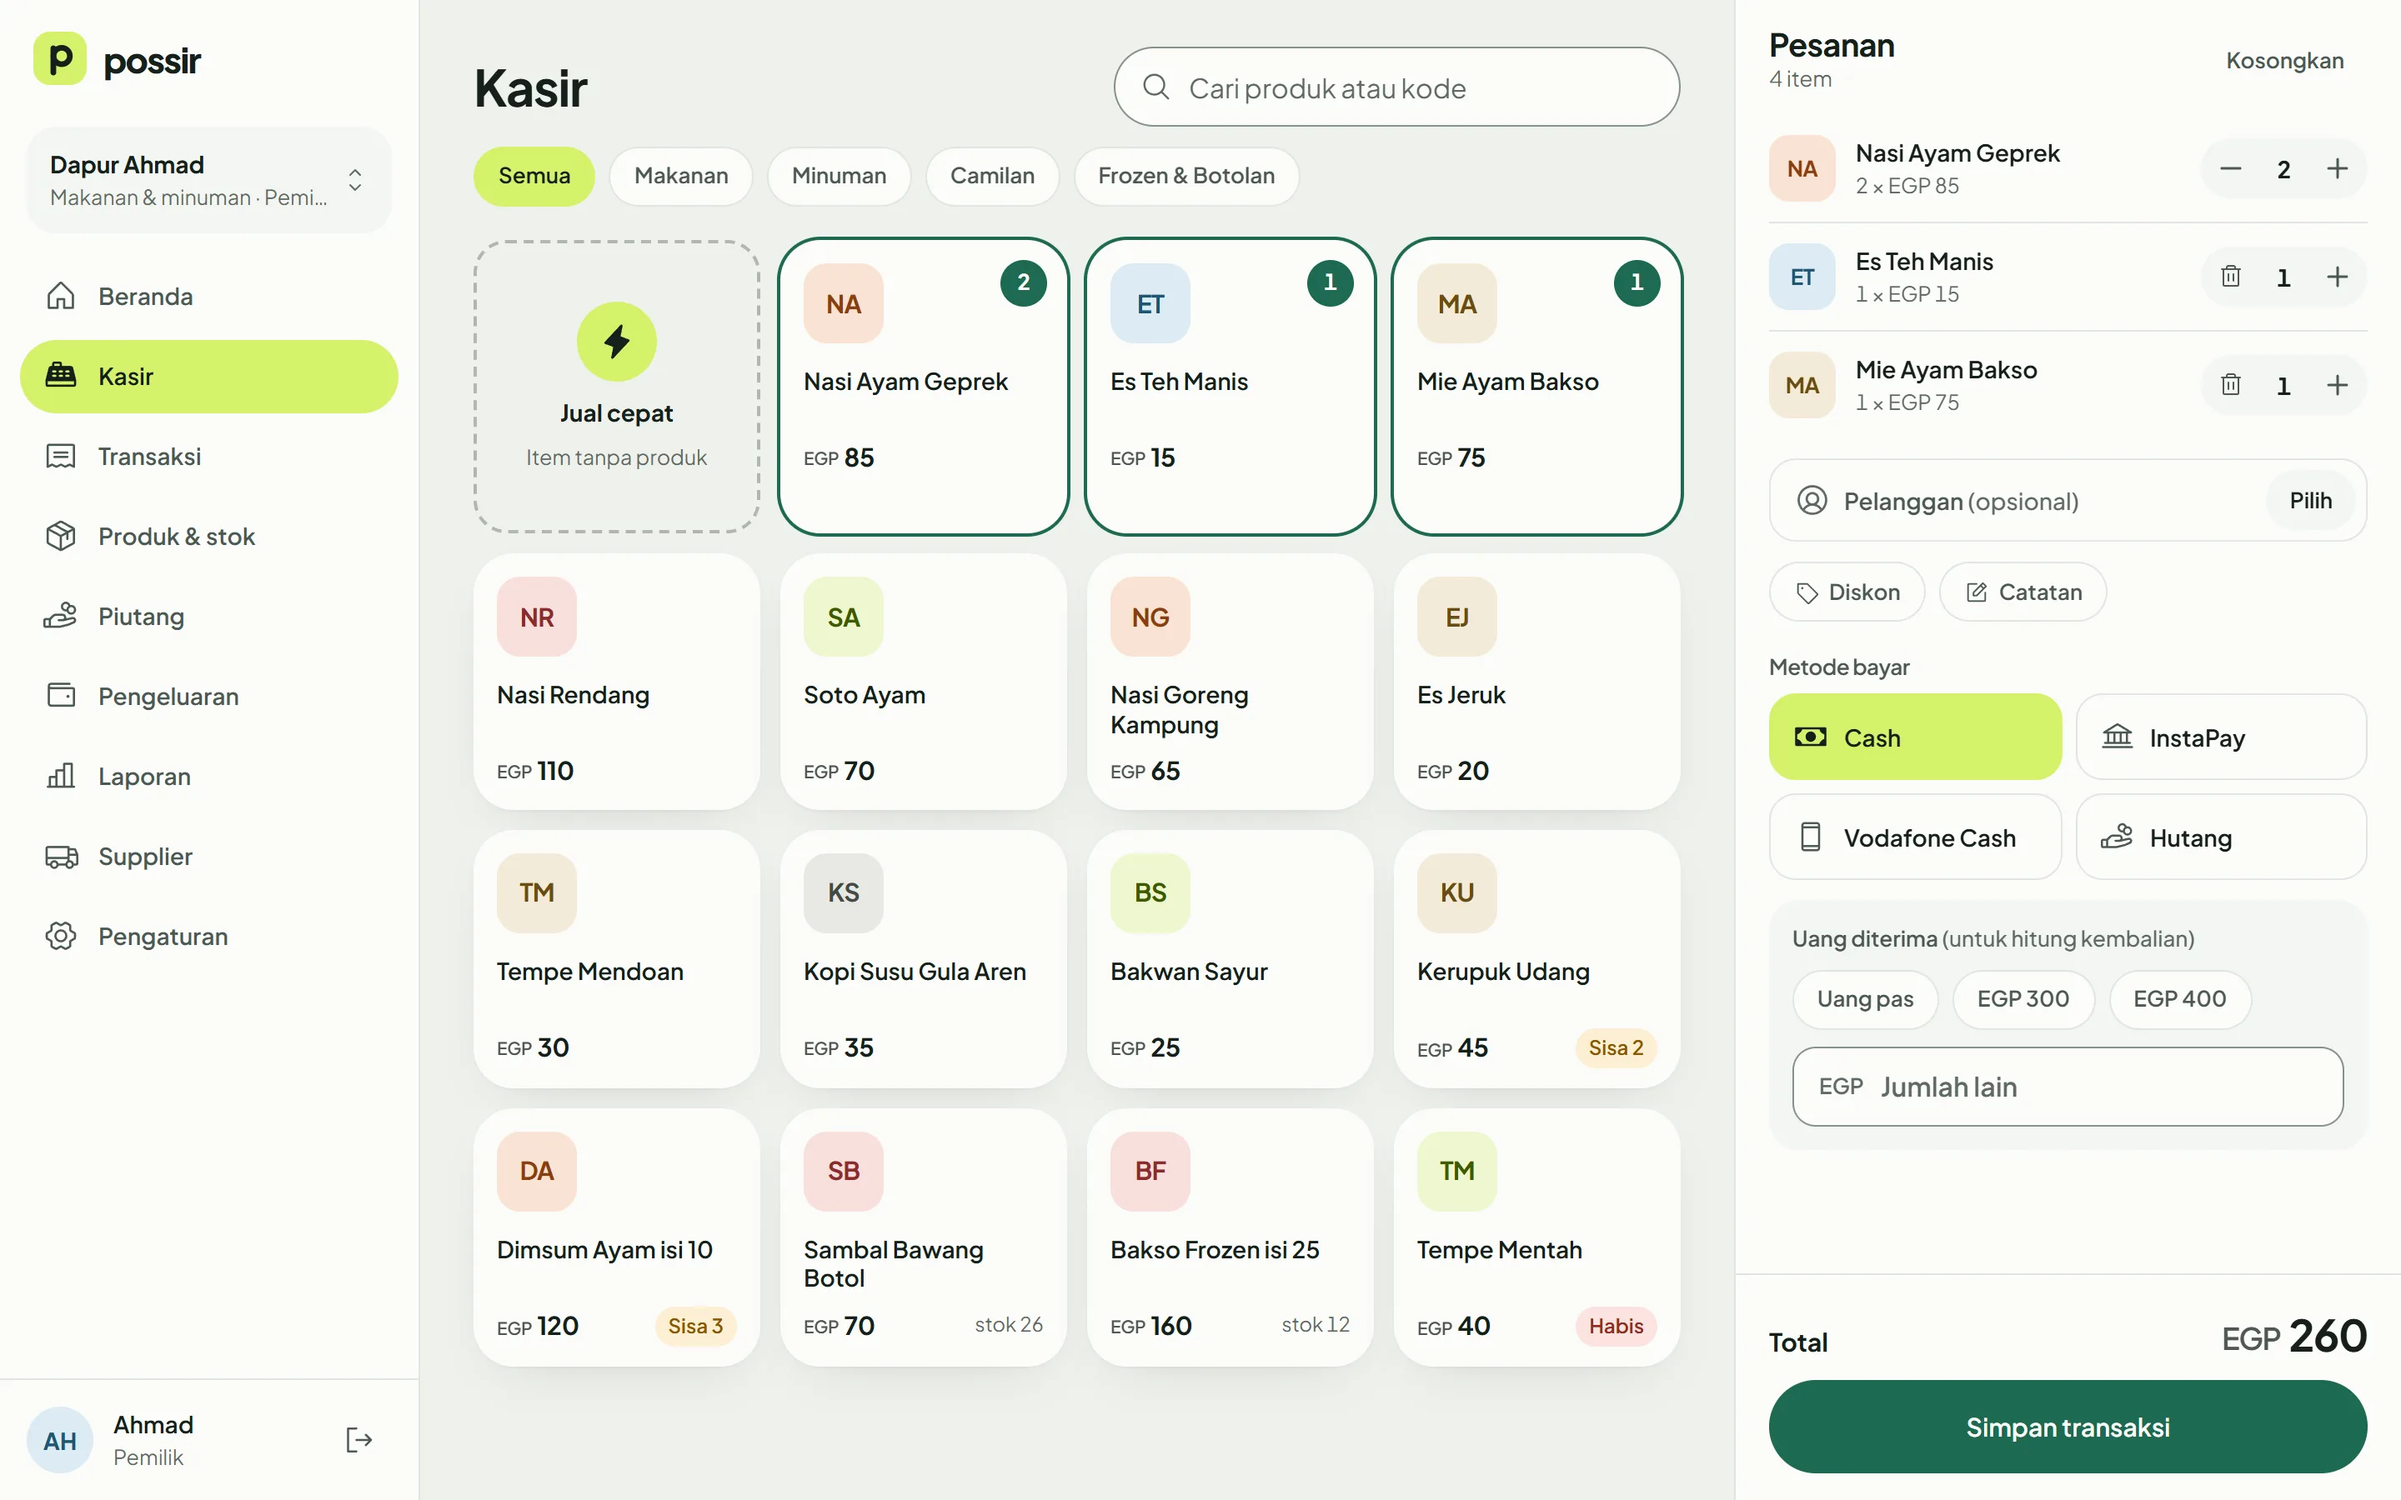
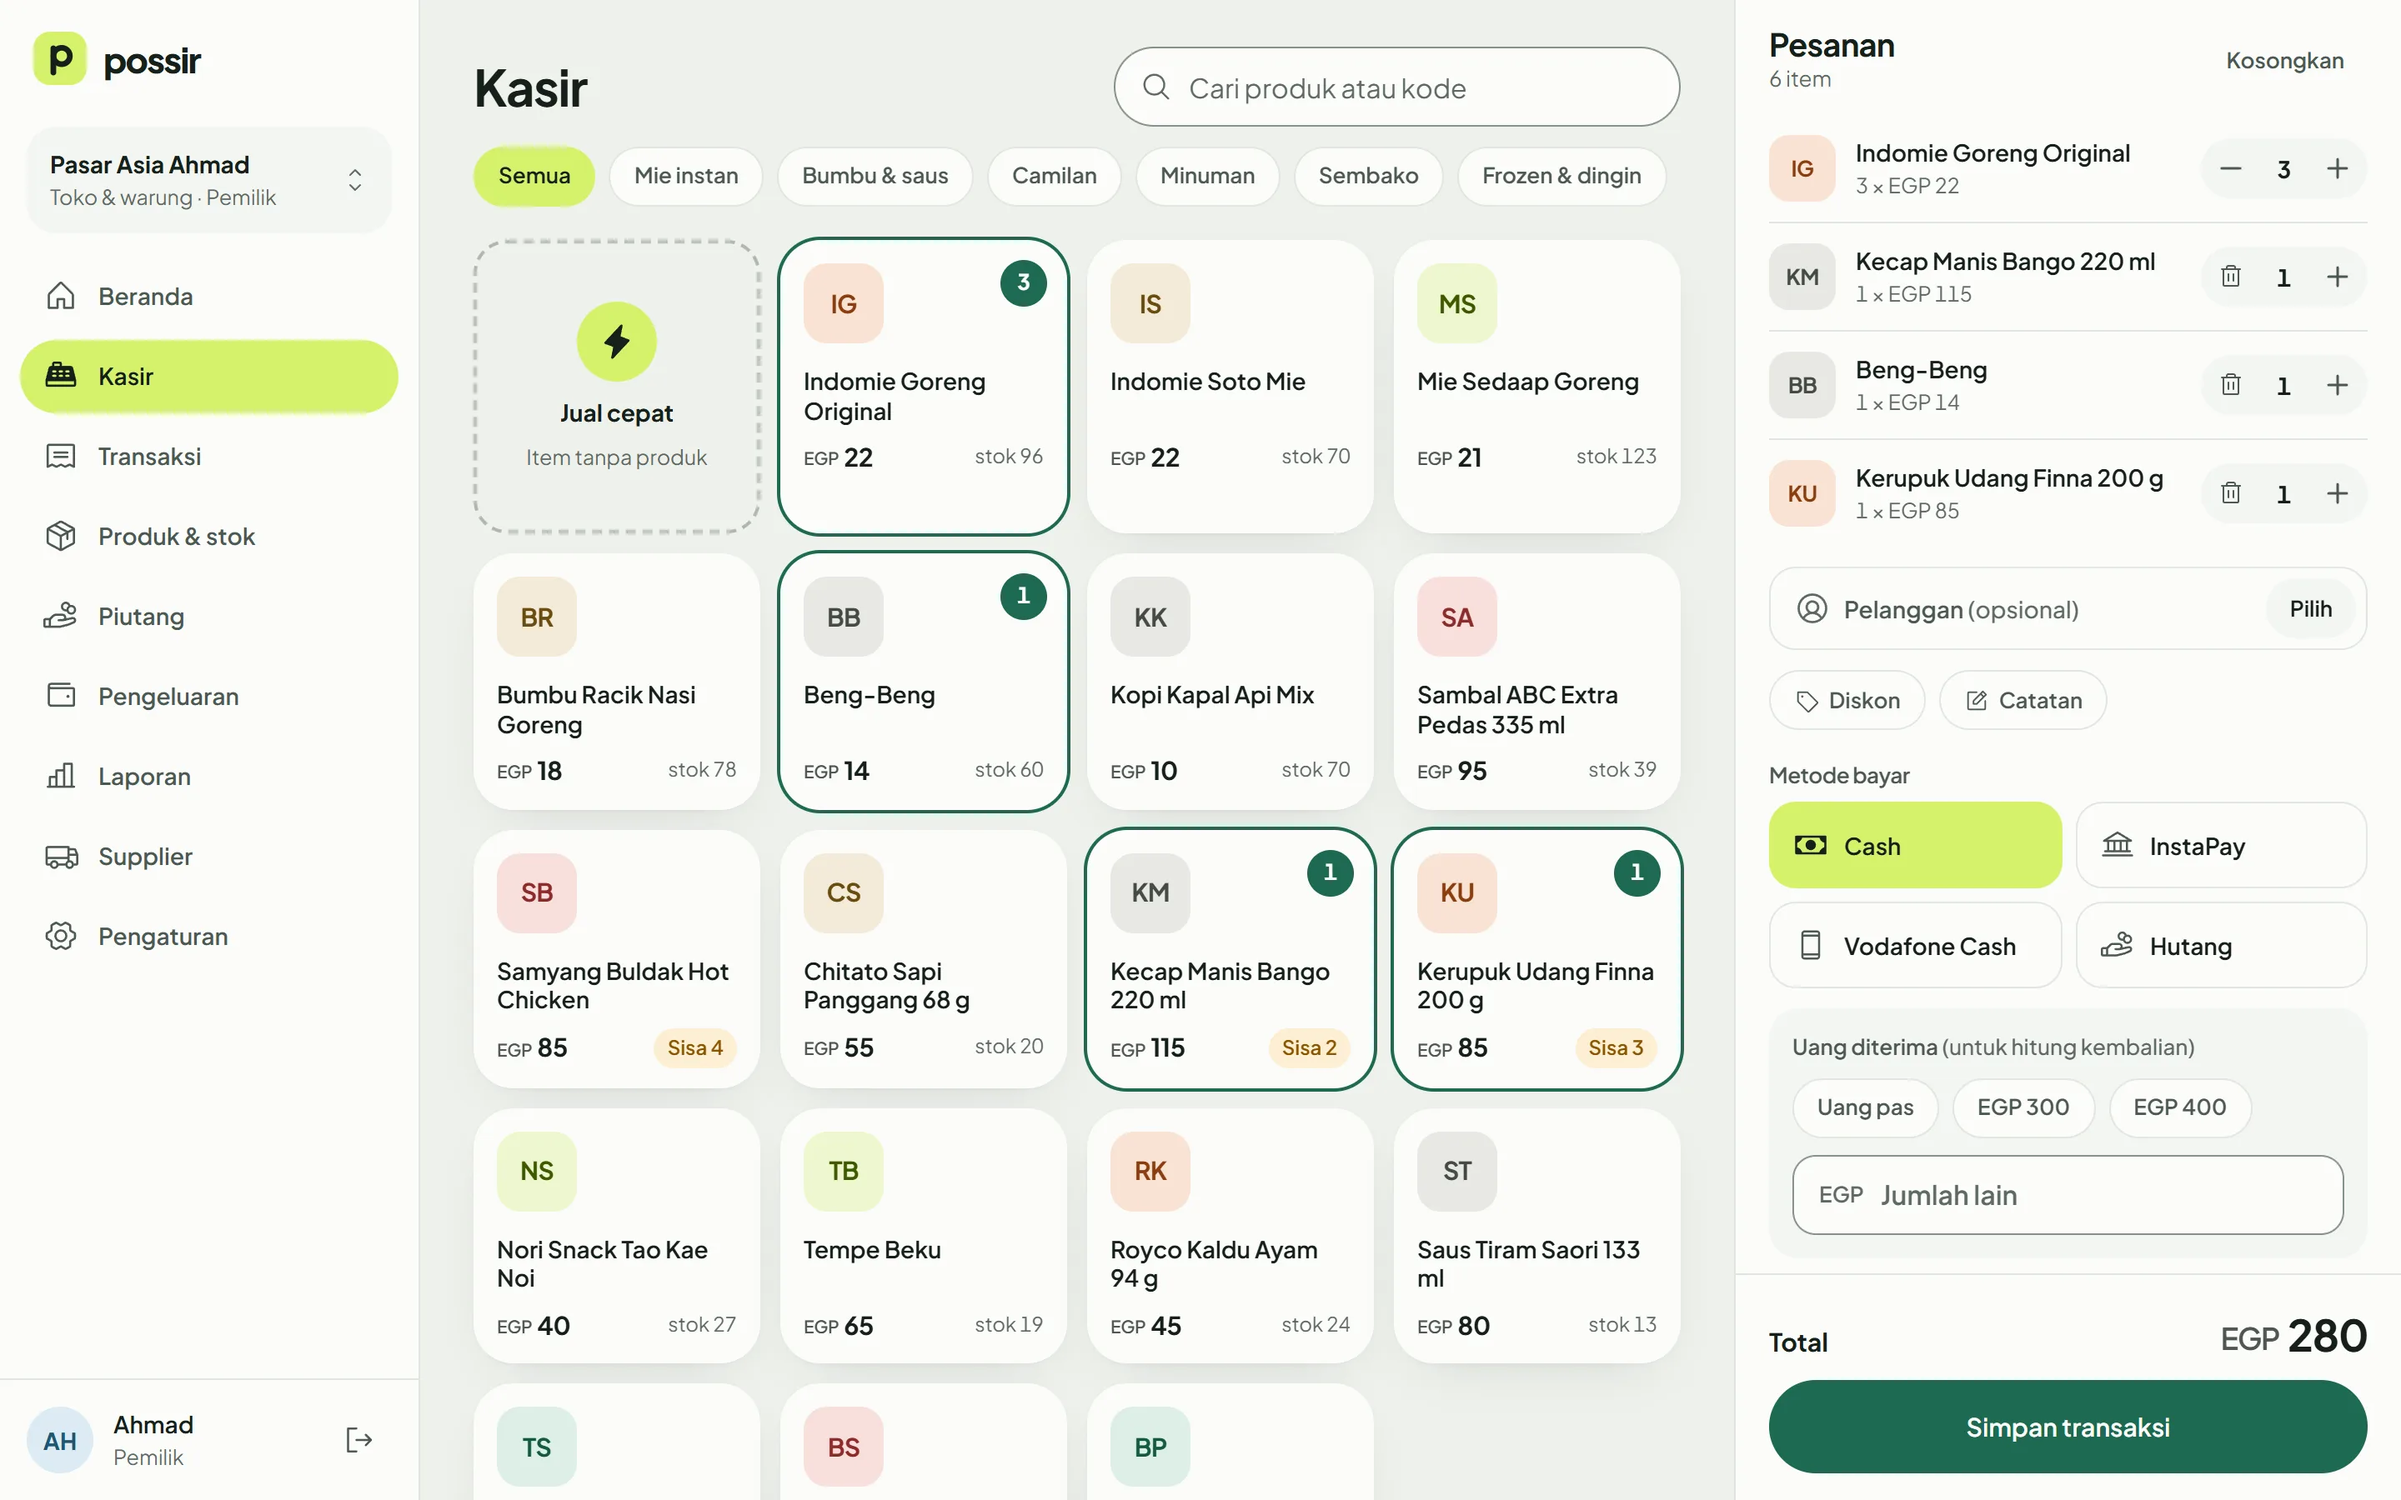
Data demo toko Asia

diff --git a/src/features/auth/landing-sections.tsx b/src/features/auth/landing-sections.tsx
@@ -265,13 +265,13 @@ export function EgyptDetails() {
               <p className="mt-1.5 max-w-[40ch] text-[14.5px] text-ink-2">Ringkasan harian atau bulanan siap dikirim ke partner usaha dengan satu ketukan.</p>
             </div>
             <div className="rounded-[18px] rounded-tl-[6px] bg-surface p-4 text-[13.5px] leading-relaxed shadow-[var(--shadow-card)]">
-              <p className="font-bold">Laporan Dapur Ahmad</p>
+              <p className="font-bold">Laporan Pasar Asia Ahmad</p>
               <p className="text-ink-3">Kamis, 24 September</p>
               <p className="mt-2">
-                Penjualan <b>EGP 2.310</b> dari 19 transaksi
+                Penjualan <b>EGP 2.310</b> dari 11 transaksi
               </p>
               <p>
-                Laba bersih <b>EGP 910</b>
+                Laba bersih <b>EGP 640</b>
               </p>
               <p className="mt-2 flex items-center gap-1.5 text-[12.5px] text-ink-3">
                 <ChatCircleText size={15} aria-hidden /> Dikirim lewat Possir

diff --git a/src/features/auth/auth-page.tsx b/src/features/auth/auth-page.tsx
@@ -146,7 +146,7 @@ function AuthCard({ mode, onModeChange }: { mode: Mode; onModeChange: (mode: Mod
         <div>
           <h2 className="text-[22px] font-bold tracking-[-0.02em]">Coba Possir sekarang</h2>
           <p className="mt-2 text-[14px] leading-relaxed text-ink-2">
-            Demo berisi 5 minggu data usaha makanan contoh. Semua berjalan di browser kamu, tanpa daftar.
+            Demo berisi 5 minggu data contoh toko barang Indonesia dan Asia. Semua berjalan di browser kamu, tanpa daftar.
           </p>
           <Button size="lg" block className="mt-6" onClick={openDemo} loading={demoBusy} loadingText="Menyiapkan demo…" iconRight={<ArrowRight size={18} weight="bold" />}>
             Lihat demo

diff --git a/src/features/pengaturan/pengaturan-page.tsx b/src/features/pengaturan/pengaturan-page.tsx
@@ -507,7 +507,7 @@ function DemoSection() {
   const [confirm, setConfirm] = useState(false);
   const [busy, setBusy] = useState(false);
   return (
-    <Section title="Data demo" description="Kembalikan data contoh Dapur Ahmad seperti awal. Semua perubahanmu di demo akan hilang.">
+    <Section title="Data demo" description="Kembalikan data contoh Pasar Asia Ahmad seperti awal. Semua perubahanmu di demo akan hilang.">
       <Button
         variant={confirm ? 'danger' : 'secondary'}
         icon={<ArrowCounterClockwise size={17} />}

diff --git a/src/data/demo/worker.ts b/src/data/demo/worker.ts
@@ -6,7 +6,7 @@ import { DEMO_USER } from './constants';
 worker({
   async init(options) {
     const db = await PGlite.create({ dataDir: options.dataDir });
-    // Mode demo selalu masuk sebagai pemilik "Dapur Ahmad"
+    // Mode demo selalu masuk sebagai pemilik "Pasar Asia Ahmad"
     await db.exec(`set request.jwt.claim.sub = '${DEMO_USER.id}'`);
     return db;
   },

diff --git a/src/app/guards.tsx b/src/app/guards.tsx
@@ -10,7 +10,7 @@ import { Page } from '@/components/layout/app-shell';
 
 const DEMO_STAGE_TEXT = {
   engine: 'Menyalakan database di browser…',
-  seed: 'Mengisi 5 minggu data contoh Dapur Ahmad…',
+  seed: 'Mengisi 5 minggu data contoh Pasar Asia Ahmad…',
   ready: 'Hampir siap…',
 } as const;
 

diff --git a/README.md b/README.md
@@ -15,7 +15,7 @@ npm run dev
 
 Buka http://localhost:5173 lalu pilih **Lihat demo**. Demo menjalankan Postgres asli di browser
 (PGlite) dengan skema SQL yang sama persis dengan Supabase, berisi 5 minggu data contoh
-"Dapur Ahmad". Data demo hanya tersimpan di browser itu. Kunjungan pertama mengunduh mesin
+"Pasar Asia Ahmad" (toko barang Indonesia dan Asia). Data demo hanya tersimpan di browser itu. Kunjungan pertama mengunduh mesin
 database sekitar 10 MB; berikutnya langsung terbuka.
 
 ## Hubungkan ke Supabase
